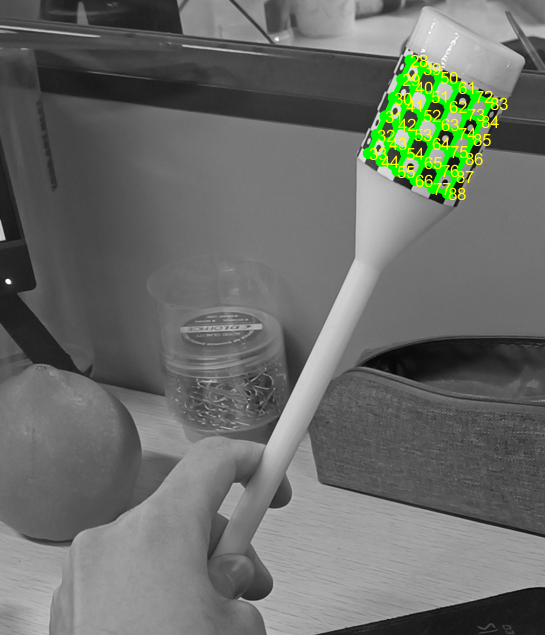
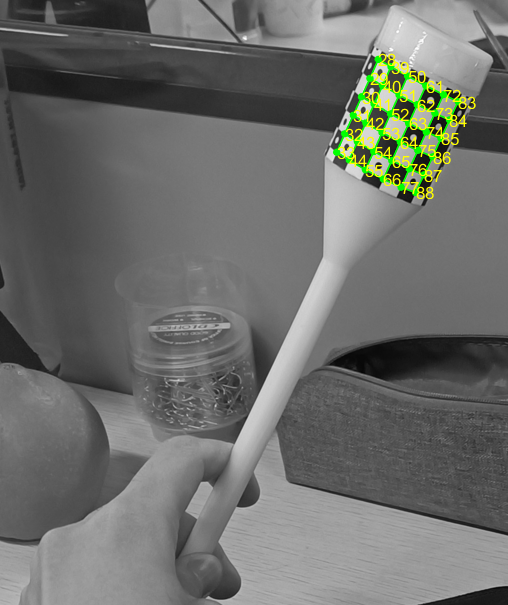
1

diff --git a/Example of Reading Algorithm (matlab)/example.m b/Example of Reading Algorithm (matlab)/example.m
@@ -20,12 +20,12 @@ imshow(img);
 hold on;
 
 % draw dots
-scatter(ptList(:,2),ptList(:,1),50,'g','filled','o','LineWidth',1);
+scatter(ptList(:,2),ptList(:,1),20,'g','filled','o','LineWidth',1);
 
 % draw edges
 Y = ptList(:,1);
 X = ptList(:,2);
-plot(X(edge'),Y(edge'),'LineWidth',3,'Color','g');
+plot(X(edge'),Y(edge'),'LineWidth',1,'Color','g');
 
 % draw unsure IDs
 pt_uID = ptList(isnan(ptList(:,3)),:);
